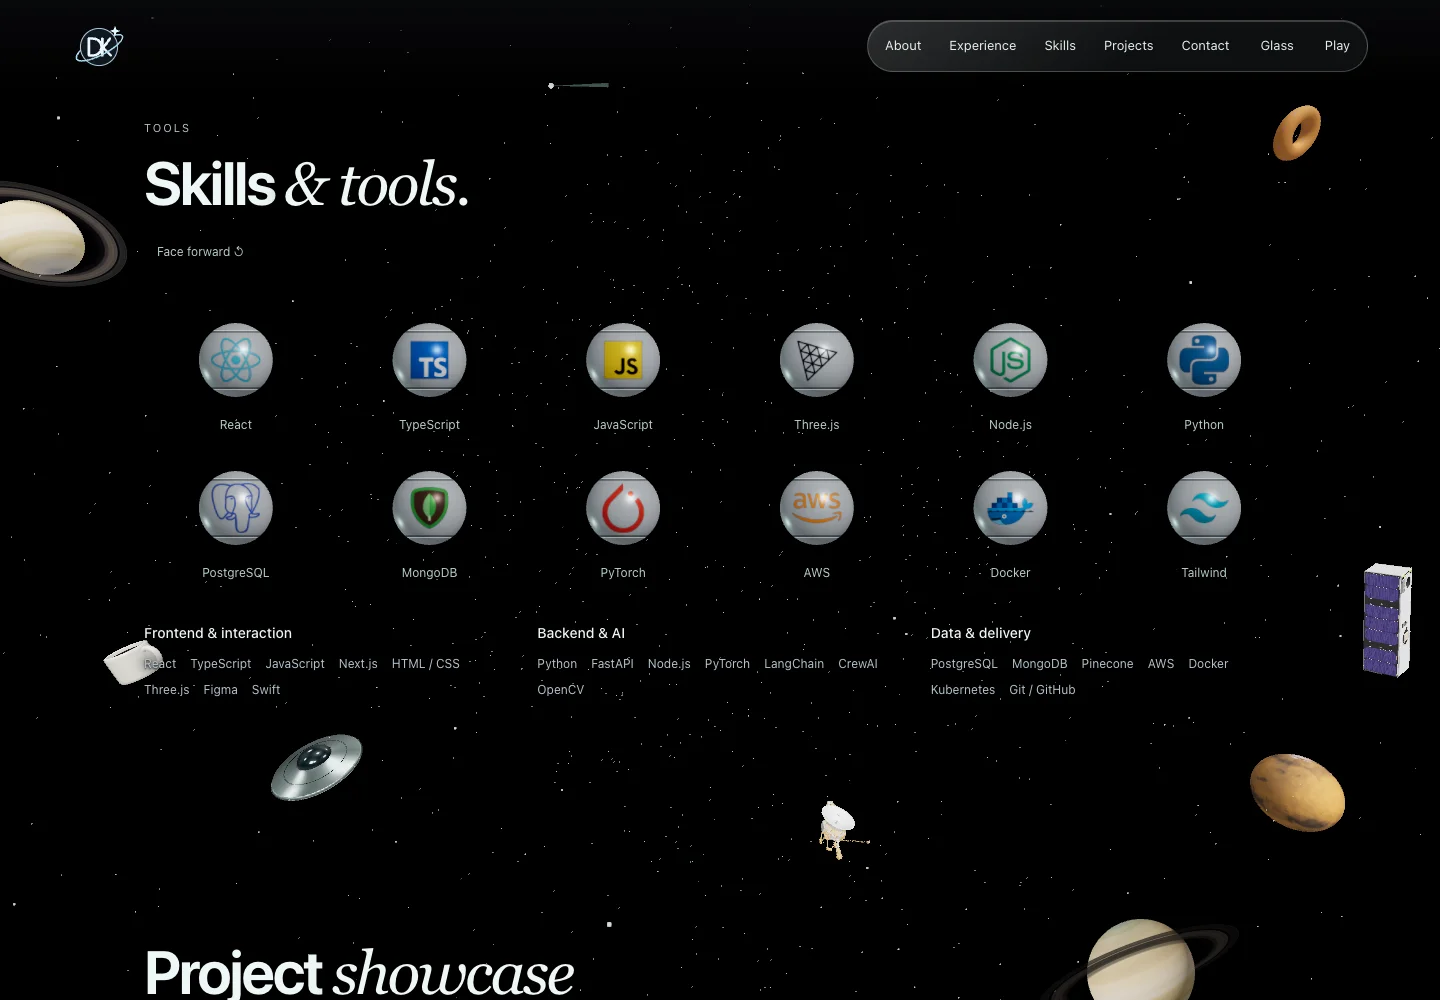
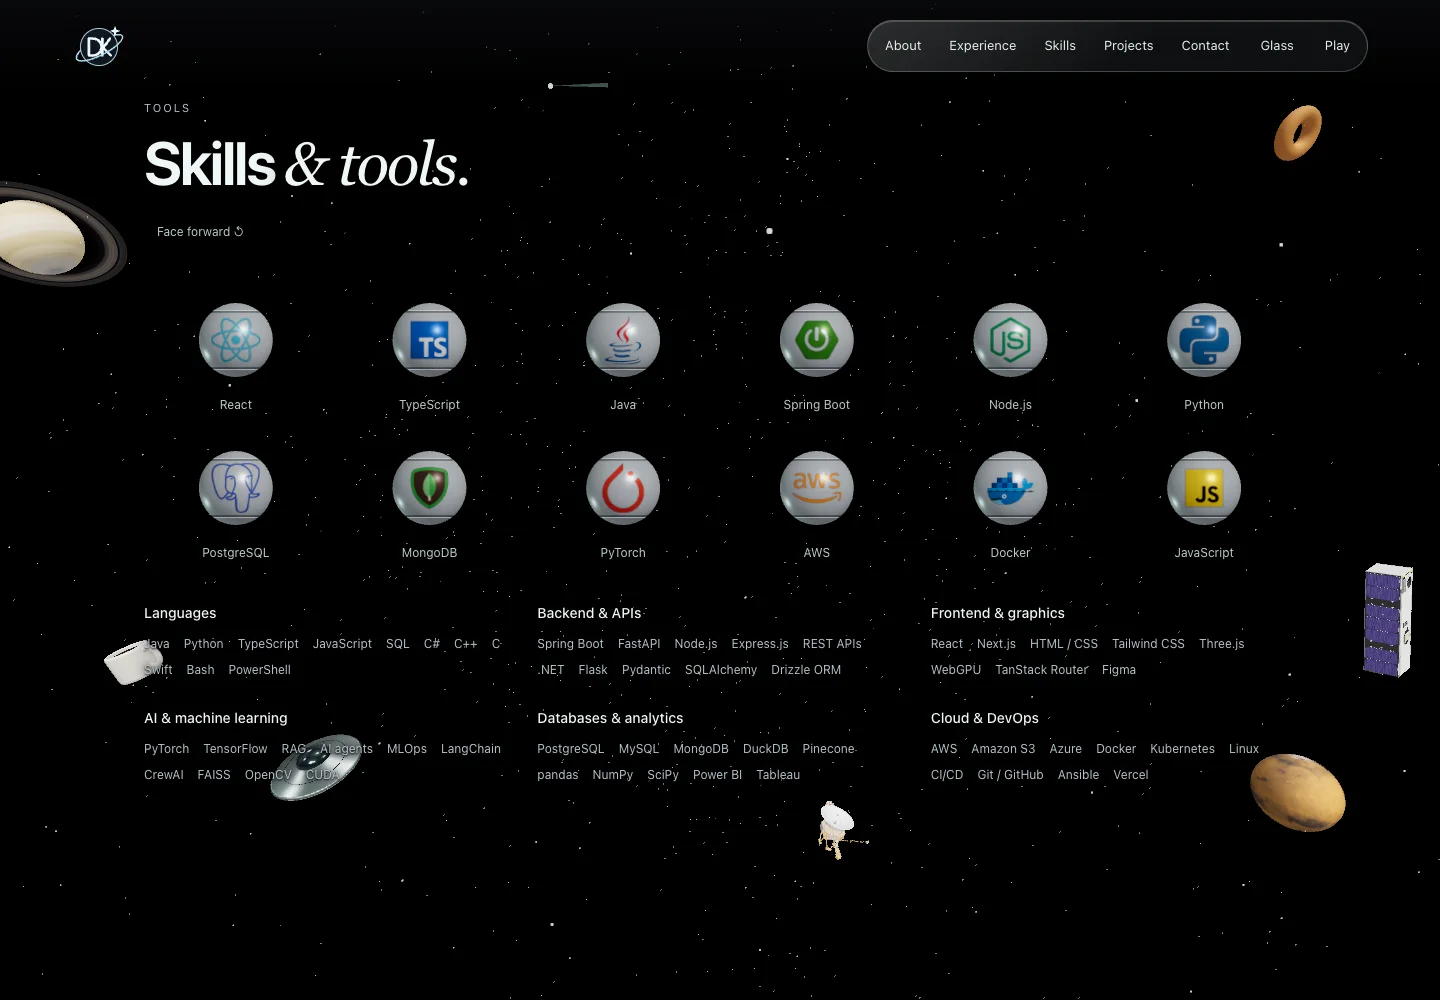
Feature Java and Spring Boot and expand the technical skills section

diff --git a/src/constants/content.js b/src/constants/content.js
@@ -9,16 +9,28 @@ export const navLinks = [
 
 export const skillGroups = [
   {
-    title: 'Frontend & interaction',
-    skills: ['React', 'TypeScript', 'JavaScript', 'Next.js', 'HTML / CSS', 'Three.js', 'Figma', 'Swift'],
+    title: 'Languages',
+    skills: ['Java', 'Python', 'TypeScript', 'JavaScript', 'SQL', 'C#', 'C++', 'C', 'Swift', 'Bash', 'PowerShell'],
   },
   {
-    title: 'Backend & AI',
-    skills: ['Python', 'FastAPI', 'Node.js', 'PyTorch', 'LangChain', 'CrewAI', 'OpenCV'],
+    title: 'Backend & APIs',
+    skills: ['Spring Boot', 'FastAPI', 'Node.js', 'Express.js', 'REST APIs', '.NET', 'Flask', 'Pydantic', 'SQLAlchemy', 'Drizzle ORM'],
   },
   {
-    title: 'Data & delivery',
-    skills: ['PostgreSQL', 'MongoDB', 'Pinecone', 'AWS', 'Docker', 'Kubernetes', 'Git / GitHub'],
+    title: 'Frontend & graphics',
+    skills: ['React', 'Next.js', 'HTML / CSS', 'Tailwind CSS', 'Three.js', 'WebGPU', 'TanStack Router', 'Figma'],
+  },
+  {
+    title: 'AI & machine learning',
+    skills: ['PyTorch', 'TensorFlow', 'RAG', 'AI agents', 'MLOps', 'LangChain', 'CrewAI', 'FAISS', 'OpenCV', 'CUDA'],
+  },
+  {
+    title: 'Databases & analytics',
+    skills: ['PostgreSQL', 'MySQL', 'MongoDB', 'DuckDB', 'Pinecone', 'pandas', 'NumPy', 'SciPy', 'Power BI', 'Tableau'],
+  },
+  {
+    title: 'Cloud & DevOps',
+    skills: ['AWS', 'Amazon S3', 'Azure', 'Docker', 'Kubernetes', 'Linux', 'CI/CD', 'Git / GitHub', 'Ansible', 'Vercel'],
   },
 ];
 

diff --git a/src/constants/tech.js b/src/constants/tech.js
@@ -7,15 +7,15 @@ import postgresql from '../assets/tech/postgresql.png';
 import python from '../assets/tech/python.png';
 import pytorch from '../assets/tech/pytorch.png';
 import reactjs from '../assets/tech/reactjs.png';
-import tailwind from '../assets/tech/tailwind.png';
-import threejs from '../assets/tech/threejs.svg';
+import java from '../assets/tech/java.svg';
+import springboot from '../assets/tech/springboot.svg';
 import typescript from '../assets/tech/typescript.png';
 
 export const technologies = [
   { name: 'React', icon: reactjs },
   { name: 'TypeScript', icon: typescript },
-  { name: 'JavaScript', icon: javascript },
-  { name: 'Three.js', icon: threejs },
+  { name: 'Java', icon: java },
+  { name: 'Spring Boot', icon: springboot },
   { name: 'Node.js', icon: nodejs },
   { name: 'Python', icon: python },
   { name: 'PostgreSQL', icon: postgresql },
@@ -23,5 +23,5 @@ export const technologies = [
   { name: 'PyTorch', icon: pytorch },
   { name: 'AWS', icon: aws },
   { name: 'Docker', icon: docker },
-  { name: 'Tailwind', icon: tailwind },
+  { name: 'JavaScript', icon: javascript },
 ];

diff --git a/SOURCES.md b/SOURCES.md
@@ -28,3 +28,5 @@ No WebGPU migration was made to this portfolio renderer. LinkedIn’s WebGPU cla
 - NASA models: https://github.com/nasa/NASA-3D-Resources — Mark III Spacesuit, CubeSat - ICECube, and Voyager Probe (A); NASA source models are hosted locally as Meshopt-compressed GLBs. Materials adjusted for rendering; footer credits updated.
 - Earth day/cloud and Saturn surface/ring maps: https://www.solarsystemscope.com/textures/ — CC BY 4.0; based on NASA data, re-encoded as WebP. Proper equirectangular/radial mapping, not globe photographs stretched over spheres.
 - The workstation uses WebP textures from the original model, with attribution retained. The deployed GLB uses glTF Transform to deduplicate resources, flatten and join compatible meshes, weld vertices, prune unused resources, and compress geometry with Meshopt at the medium setting. The compact GLB uses those same transforms with textures capped at 896 pixels on the longest edge.
+
+- Skills section: languages, frameworks and tools from the November résumé and its project and experience entries. Java icon from [Devicon](https://github.com/devicons/devicon/blob/master/icons/java/java-original.svg) and Spring Boot mark from [Simple Icons](https://github.com/simple-icons/simple-icons/blob/develop/icons/springboot.svg).
